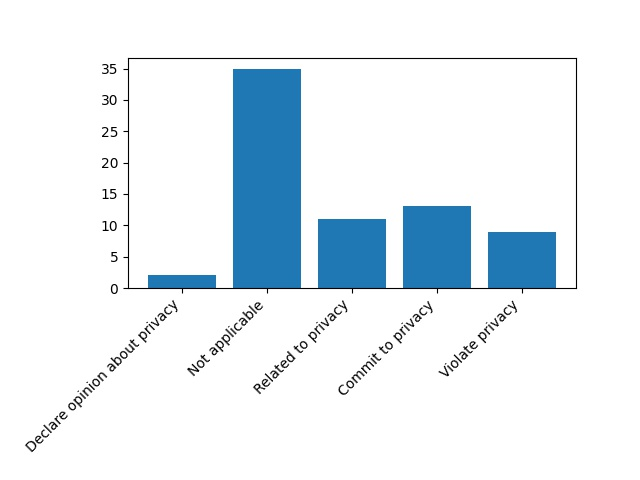
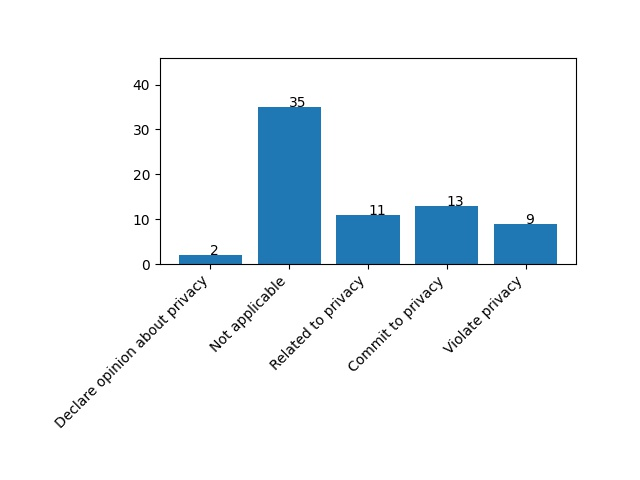
removed distribution from output stats file for now, fixed graphs margin to fit whole name of labels

diff --git a/simpleclassifier.py b/simpleclassifier.py
@@ -49,6 +49,7 @@ def write_predictions_file(name, pred_dict):
     with open('output/Simple Classifier/multilabelPredictions_'+name+'.json', 'w') as file:
         file.write(json.dumps(pred_dict, indent=4, ensure_ascii=False))
 
+'''
 # FLAG - THERE IS PROBABLY A PYTHON FUNCTION THAT CALCULATES THIS
 def measure_distribution(ref_array, name):
     counter = Counter(tuple(item) for item in ref_array)
@@ -69,7 +70,7 @@ def measure_distribution(ref_array, name):
     x_pos = numpy.arange(7) # sets number of bars
     plt.bar(x_pos, counter.values(),align='center')
     plt.xticks(x_pos, counter.keys(), rotation=45, ha="right") # sets labels of bars and their positions
-    plt.subplots_adjust(bottom=0.6) # creates space for complete label names
+    plt.subplots_adjust(bottom=0.4) # creates space for complete label names
     plt.savefig('output/Simple Classifier/multilabel_distribution_'+name+'.jpg')
 
     path = 'output/Simple Classifier/1labelPredictionsStats_'+name+'.txt'
@@ -78,6 +79,7 @@ def measure_distribution(ref_array, name):
     with open(path, 'w') as file:
         print(name+"set statistics:\n", file=file)
         print('Distribution of labels\n\nViolate privacy:', distr_violation,'\nCommit to privacy:', distr_commit,'\nOpinion about privacy:',distr_opinion, '\nRelated to privacy:', distr_related, '\nNot applicable:', distr_notApp,'\n', file=file)
+'''
 
 def create_confusion_matrix(refs, preds,name):
     #ConfusionMatrixDisplay.from_predictions(ref_1label_str_list,pred_1label_str_list, normalize="true")
@@ -94,7 +96,7 @@ def plot_distribution(counter, name, type):
     x_pos = numpy.arange(len(counter)) # sets number of bars
     plt.bar(x_pos, counter.values(),align='center')
     plt.xticks(x_pos, counter.keys(), rotation=45, ha="right") # sets labels of bars and their positions
-    plt.subplots_adjust(bottom=0.4, left=0.3) # creates space for complete label names
+    plt.subplots_adjust(bottom=0.45, left=0.25) # creates space for complete label names
     for i, value in enumerate(counter.values()):
         plt.text(i,value,str(value))
     plt.ylim((0,counter.most_common()[0][1]+counter.most_common()[2][1]))
@@ -126,9 +128,15 @@ train_labels_ref_list = [sent['label'] for sent in train_sents_ref_json]
 dev_labels_ref_list = [sent['label'] for sent in dev_sents_ref_json]
 #test_labels_ref_list = [sent['label'] for sent in test_sents_ref_json]
 
-# Count distribution + Multilabel distribution chart
+# Multilabel distribution chart
+counter = Counter(tuple(item) for item in train_labels_ref_list)
+plot_distribution(counter, "Train", "multilabel")
 counter = Counter(tuple(item) for item in dev_labels_ref_list)
 plot_distribution(counter, "Dev", "multilabel")
+#counter = Counter(tuple(item) for item in test_labels_ref_list)
+#plot_distribution(counter, "Test", "multilabel")
+
+# Count distribution ---- PAUSED FOR NOW
 #measure_distribution(train_labels_ref_list, "Train")
 #measure_distribution(dev_labels_ref_list, "Dev")
 #measure_distribution(test_labels_ref_list, "Test")

diff --git a/utils.py b/utils.py
@@ -1,4 +1,5 @@
 import re
+import os
 from sklearn.metrics import precision_score, f1_score, recall_score, accuracy_score
 
 # reconstructs hyphen, slash and apostrophes
@@ -59,8 +60,8 @@ def clean_corpus(corpus):
 # WRITE OUTPUT STATISTICS FILE
 def write_output_stats_file(path, name, ref_labels, pred_labels):
     #path = 'output/Simple Classifier/1labelPredictionsStats_'+name+'.txt'
-    #os.makedirs(os.path.dirname(path), exist_ok=True)
-    with open(path, 'a') as file:
+    os.makedirs(os.path.dirname(path), exist_ok=True)
+    with open(path, 'w') as file:
         print("Performance in",name,"set:\n", file=file)
         print("Accuracy:",round( accuracy_score( ref_labels, pred_labels), 2), file=file)
         print("Precision micro:",round( precision_score( ref_labels, pred_labels, average="micro"), 2), file=file)
